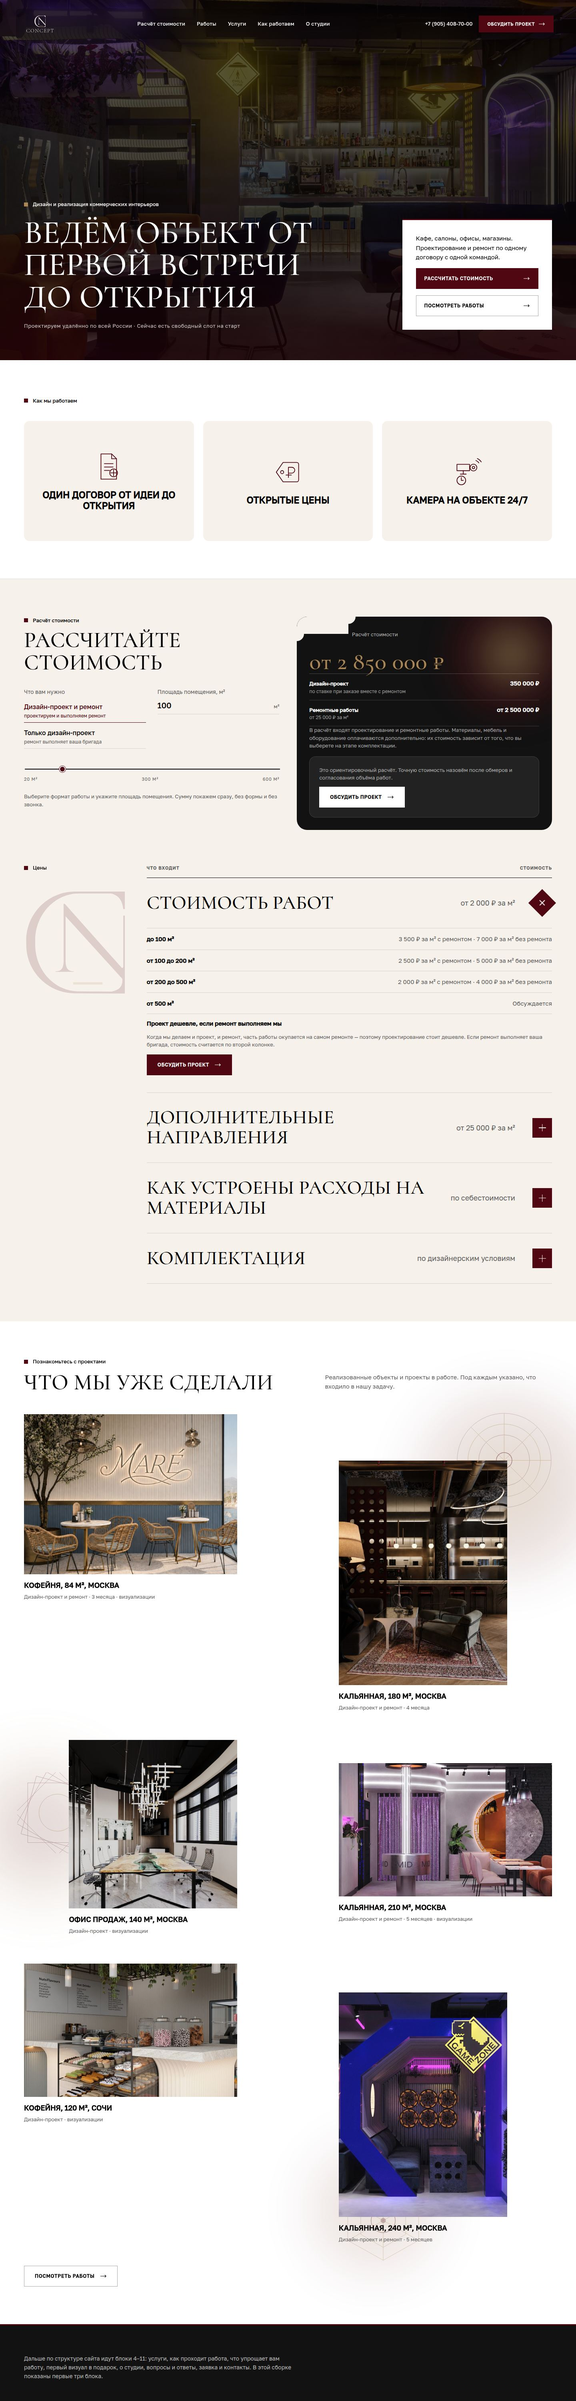
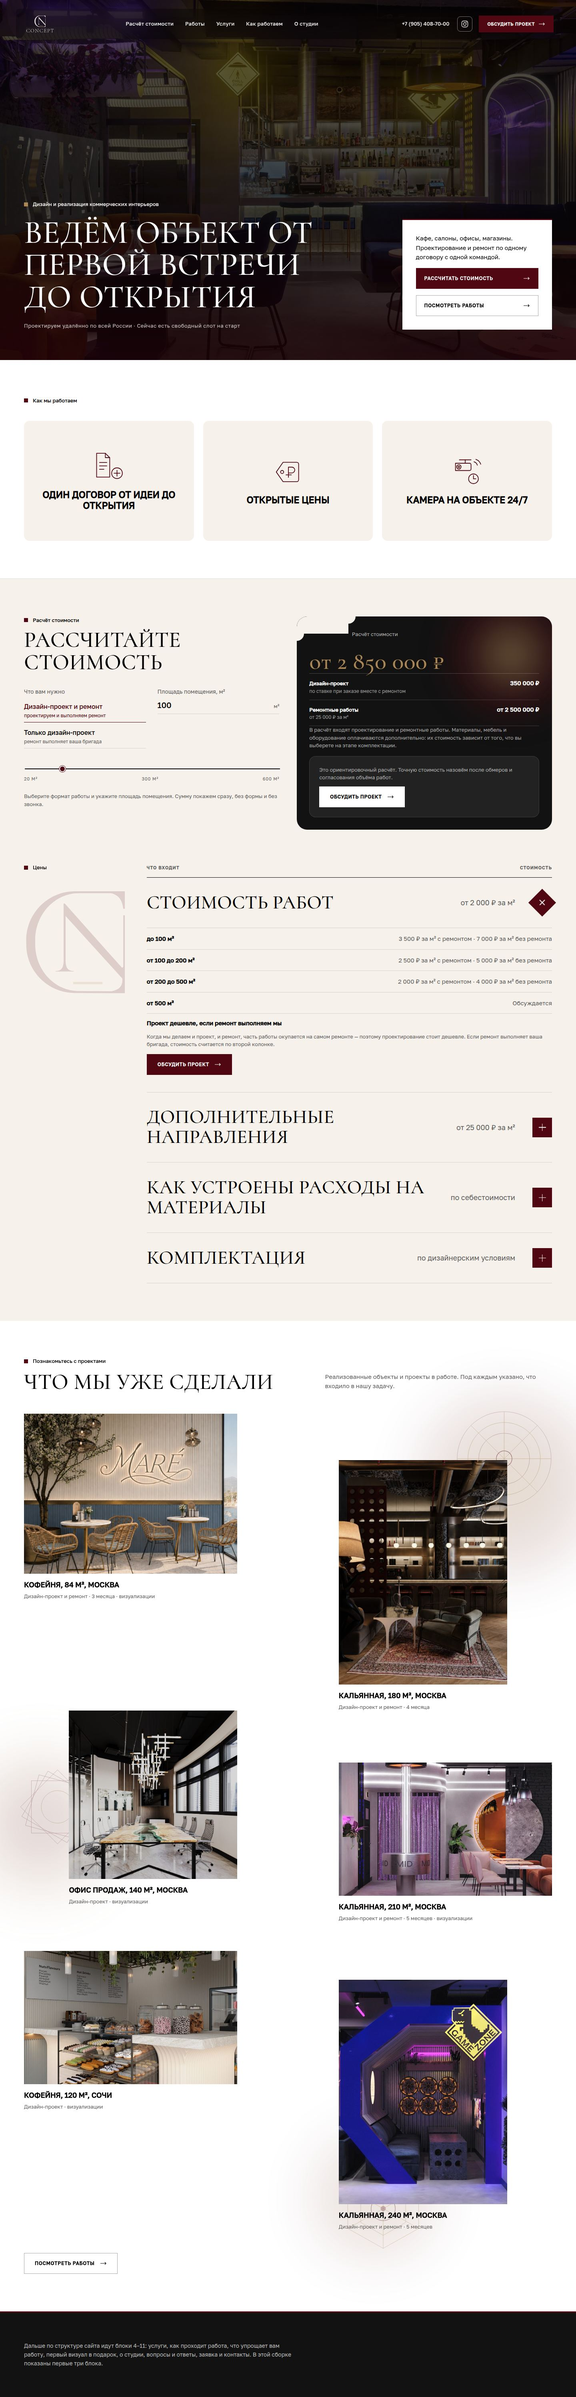
Слайдшоу на первом экране, иконки, галерея объектов и правки под мобильный
Первый экран: четыре кадра сменяют друг друга по кругу (32 с, плавное
перекрытие, отключается при prefers-reduced-motion). Три новых кадра
собраны из assets/photo/source/hero.

Шапка: слева от кнопки появилась иконка Instagram — и на ноутбуке,
и на телефоне. Ссылку на профиль нужно подставить, в коде стоит TODO.

Иконки «Как мы работаем»: у договора плюс переехал вправо от листа,
камера перерисована — корпус с объективом, кронштейн, сигнал и часы.
Наложений больше нет.

Работы:
- у каждого объекта в галерее теперь все кадры, а не два: на ноутбуке
  сетка 2×2 сбоку, на телефоне — горизонтальная лента;
- «Офис продаж, 140 м²» приподнят;
- вектор слева от него больше не обрезается: повёрнутые квадраты
  выходили за viewBox, рамка расширена;
- на телефоне между объектами стало заметно больше воздуха.

Мобильный:
- в ценах плюс всегда в правом верхнем углу, заголовок переносится
  по строкам (раньше уезжал влево под заголовок);
- карточки «Как мы работаем» стали ниже;
- карточка раскрывается сама, когда доходит до середины экрана, и
  закрывается по касанию; заголовок при раскрытии крупнее и выше;
- у объекта при прокрутке выезжают остальные кадры и кнопка
  «Посмотреть все фото».

Наведение вынесено в @media (hover:hover) — на тач-экране :hover
залипал после касания и мешал закрывать карточку.

Проверено: переполнений нет на 390/768/1024/1440/1920, ошибок в консоли
нет, суммы на 250 м² совпадают с документом. Превью пересобраны.
[…]

diff --git a/index.html b/index.html
@@ -30,6 +30,14 @@
     </nav>
 
     <a class="hdr__phone" href="tel:+79054087000">+7 (905) 408-70-00</a>
+    <!-- TODO: подставить ссылку на профиль студии в Instagram -->
+    <a class="hdr__ig" href="#contacts" aria-label="Instagram">
+      <svg viewBox="0 0 24 24" fill="none" aria-hidden="true" focusable="false">
+        <rect x="3" y="3" width="18" height="18" rx="5" stroke="currentColor" stroke-width="1.6"/>
+        <circle cx="12" cy="12" r="4.2" stroke="currentColor" stroke-width="1.6"/>
+        <circle cx="17.4" cy="6.6" r="1.2" fill="currentColor"/>
+      </svg>
+    </a>
     <a class="btn btn--sm" href="#contacts">Обсудить проект</a>
   </div>
 </header>
@@ -40,8 +48,12 @@
      БЛОК 1 — ПЕРВЫЙ ЭКРАН
      ============================================================ -->
 <section class="hero on-dark">
+  <!-- Кадры сменяют друг друга по кругу -->
   <div class="hero__media">
     <img src="assets/photo/hero.jpg" alt="Интерьер бара: барная стойка с латунной отделкой, мягкие диваны, тёплый свет" fetchpriority="high" width="2000" height="1250">
+    <img src="assets/photo/hero-2.jpg" alt="" loading="lazy" width="2000" height="1250">
+    <img src="assets/photo/hero-3.jpg" alt="" loading="lazy" width="2000" height="1250">
+    <img src="assets/photo/hero-4.jpg" alt="" loading="lazy" width="2000" height="1250">
   </div>
 
 
@@ -73,11 +85,11 @@
       <article class="usp__card" tabindex="0">
         <svg class="usp__icon" viewBox="0 0 64 64" fill="none" aria-hidden="true" focusable="false">
           <g stroke="#500711" stroke-width="1.5" stroke-linejoin="round" stroke-linecap="round">
-            <path d="M16 6h22l10 10v42H16z"/>
-            <path d="M38 6v10h10"/>
-            <path d="M23 26h18M23 33h18M23 40h11"/>
-            <circle cx="42" cy="45" r="8"/>
-            <path d="M42 39v12M36 45h12"/>
+            <path d="M7 5h18l9 9v40H7z"/>
+            <path d="M25 5v9h9"/>
+            <path d="M13 24h15M13 31h15M13 38h9"/>
+            <circle cx="49" cy="46" r="11"/>
+            <path d="M49 40v12M43 46h12"/>
           </g>
         </svg>
         <h2 class="h3 usp__title">Один договор от идеи до открытия</h2>
@@ -102,13 +114,14 @@
       <article class="usp__card" tabindex="0">
         <svg class="usp__icon" viewBox="0 0 64 64" fill="none" aria-hidden="true" focusable="false">
           <g stroke="#500711" stroke-width="1.5" stroke-linejoin="round" stroke-linecap="round">
-            <path d="M11 16h26v13H11z"/>
-            <circle cx="45" cy="22.5" r="7"/>
-            <circle cx="45" cy="22.5" r="2.5"/>
-            <path d="M24 29v7M18 36h12"/>
-            <path d="M50 8a13 13 0 0 1 6 5M53 4a19 19 0 0 1 8 7"/>
-            <circle cx="20" cy="49" r="9"/>
-            <path d="M20 43v6h4"/>
+            <path d="M16 7h24"/>
+            <path d="M28 7v7"/>
+            <path d="M8 14h29a3 3 0 0 1 3 3v9a3 3 0 0 1-3 3H8z"/>
+            <circle cx="15" cy="21.5" r="4.5"/>
+            <circle cx="15" cy="21.5" r="1.6"/>
+            <path d="M46 11a10 10 0 0 1 7 7M50 6a16 16 0 0 1 10 10"/>
+            <circle cx="45" cy="46" r="10"/>
+            <path d="M45 39v7h5"/>
           </g>
         </svg>
         <h2 class="h3 usp__title">Камера на объекте 24/7</h2>
@@ -341,7 +354,7 @@
       <circle cx="100" cy="100" r="16" stroke="#500711" stroke-width="1"/>
     </svg>
 
-    <svg class="ornament ornament--b" viewBox="0 0 200 200" fill="none">
+    <svg class="ornament ornament--b" viewBox="-14 -14 228 228" fill="none">
       <g stroke="#500711" stroke-width=".7" opacity=".7">
         <rect x="26" y="26" width="148" height="148"/>
         <rect x="26" y="26" width="148" height="148" transform="rotate(15 100 100)"/>
@@ -383,7 +396,10 @@
         <div class="work__extra" aria-hidden="true">
           <img src="assets/photo/works/krym-cafe/01.jpg" alt="" loading="lazy">
           <img src="assets/photo/works/krym-cafe/02.jpg" alt="" loading="lazy">
+          <img src="assets/photo/works/krym-cafe/03.jpg" alt="" loading="lazy">
+          <img src="assets/photo/works/krym-cafe/04.jpg" alt="" loading="lazy">
         </div>
+        <a class="work__more" href="#works">Посмотреть все фото</a>
         <h3 class="work__title">Кофейня, 84 м², Москва</h3>
         <p class="work__meta">Дизайн-проект и ремонт · 3 месяца · визуализации</p>
       </article>
@@ -395,7 +411,10 @@
         <div class="work__extra" aria-hidden="true">
           <img src="assets/photo/works/hookah-bar/02.jpg" alt="" loading="lazy">
           <img src="assets/photo/works/hookah-bar/03.jpg" alt="" loading="lazy">
+          <img src="assets/photo/works/hookah-bar/04.jpg" alt="" loading="lazy">
+          <img src="assets/photo/works/hookah-bar/wide.jpg" alt="" loading="lazy">
         </div>
+        <a class="work__more" href="#works">Посмотреть все фото</a>
         <h3 class="work__title">Кальянная, 180 м², Москва</h3>
         <p class="work__meta">Дизайн-проект и ремонт · 4 месяца</p>
       </article>
@@ -407,7 +426,10 @@
         <div class="work__extra" aria-hidden="true">
           <img src="assets/photo/works/sales-office/02.jpg" alt="" loading="lazy">
           <img src="assets/photo/works/sales-office/03.jpg" alt="" loading="lazy">
+          <img src="assets/photo/works/sales-office/04.jpg" alt="" loading="lazy">
+          <img src="assets/photo/works/sales-office/wide.jpg" alt="" loading="lazy">
         </div>
+        <a class="work__more" href="#works">Посмотреть все фото</a>
         <h3 class="work__title">Офис продаж, 140 м², Москва</h3>
         <p class="work__meta">Дизайн-проект · визуализации</p>
       </article>
@@ -419,7 +441,10 @@
         <div class="work__extra" aria-hidden="true">
           <img src="assets/photo/works/mid-lounge/01.jpg" alt="" loading="lazy">
           <img src="assets/photo/works/mid-lounge/02.jpg" alt="" loading="lazy">
+          <img src="assets/photo/works/mid-lounge/03.jpg" alt="" loading="lazy">
+          <img src="assets/photo/works/mid-lounge/04.jpg" alt="" loading="lazy">
         </div>
+        <a class="work__more" href="#works">Посмотреть все фото</a>
         <h3 class="work__title">Кальянная, 210 м², Москва</h3>
         <p class="work__meta">Дизайн-проект и ремонт · 5 месяцев · визуализации</p>
       </article>
@@ -429,9 +454,12 @@
           <img src="assets/photo/works/krym-cafe/03.jpg" alt="Кофейня: барная стойка и витрина с десертами" loading="lazy" width="1600" height="1000">
         </div>
         <div class="work__extra" aria-hidden="true">
+          <img src="assets/photo/works/krym-cafe/01.jpg" alt="" loading="lazy">
+          <img src="assets/photo/works/krym-cafe/02.jpg" alt="" loading="lazy">
           <img src="assets/photo/works/krym-cafe/04.jpg" alt="" loading="lazy">
           <img src="assets/photo/works/krym-cafe/wide.jpg" alt="" loading="lazy">
         </div>
+        <a class="work__more" href="#works">Посмотреть все фото</a>
         <h3 class="work__title">Кофейня, 120 м², Сочи</h3>
         <p class="work__meta">Дизайн-проект · визуализации</p>
       </article>
@@ -441,9 +469,12 @@
           <img src="assets/photo/works/mid-lounge/03.jpg" alt="Кальянная: посадочная зона с диванами и декоративными нишами" loading="lazy" width="1050" height="1400">
         </div>
         <div class="work__extra" aria-hidden="true">
+          <img src="assets/photo/works/mid-lounge/01.jpg" alt="" loading="lazy">
+          <img src="assets/photo/works/mid-lounge/02.jpg" alt="" loading="lazy">
           <img src="assets/photo/works/mid-lounge/04.jpg" alt="" loading="lazy">
           <img src="assets/photo/works/mid-lounge/wide.jpg" alt="" loading="lazy">
         </div>
+        <a class="work__more" href="#works">Посмотреть все фото</a>
         <h3 class="work__title">Кальянная, 240 м², Москва</h3>
         <p class="work__meta">Дизайн-проект и ремонт · 5 месяцев</p>
       </article>

diff --git a/assets/css/krasnov.css b/assets/css/krasnov.css
@@ -165,6 +165,14 @@ ul{ padding:0; list-style:none }
   margin-inline-start:clamp(16px,2vw,32px);
 }
 .hdr__phone:hover{ color:var(--brass) }
+.hdr__ig{
+  flex:none; margin-inline-start:clamp(12px,1.4vw,20px);
+  display:grid; place-items:center; width:38px; height:38px;
+  border:1px solid var(--rule-light); border-radius:8px;
+  transition:color .2s, border-color .2s;
+}
+.hdr__ig svg{ width:20px; height:20px }
+.hdr__ig:hover{ color:var(--brass); border-color:var(--brass) }
 .hdr .btn{ flex:none; margin-inline-start:16px; white-space:nowrap }
 
 /* ============================================================
@@ -177,7 +185,21 @@ ul{ padding:0; list-style:none }
   background:var(--black); color:#fff; overflow:hidden;
 }
 .hero__media{ position:absolute; inset:0 }
-.hero__media img{ width:100%; height:100%; object-fit:cover }
+.hero__media img{
+  position:absolute; inset:0; width:100%; height:100%; object-fit:cover;
+  opacity:0; animation:heroFade 32s linear infinite;
+}
+.hero__media img:nth-child(1){ animation-delay:-1s }
+.hero__media img:nth-child(2){ animation-delay:7s }
+.hero__media img:nth-child(3){ animation-delay:15s }
+.hero__media img:nth-child(4){ animation-delay:23s }
+@keyframes heroFade{
+  0%{ opacity:0 } 3%{ opacity:1 } 25%{ opacity:1 } 28%{ opacity:0 } 100%{ opacity:0 }
+}
+@media (prefers-reduced-motion:reduce){
+  .hero__media img{ animation:none }
+  .hero__media img:nth-child(1){ opacity:1 }
+}
 .hero__media::after{
   content:''; position:absolute; inset:0;
   background:
@@ -242,18 +264,31 @@ ul{ padding:0; list-style:none }
   transition:opacity .35s ease .1s, transform .5s cubic-bezier(.4,0,.2,1) .05s;
 }
 
-.usp__card:hover,
-.usp__card:focus-within{ background:var(--wine); color:#fff }
-.usp__card:hover .usp__icon,
-.usp__card:focus-within .usp__icon{ transform:translateY(-230%); opacity:0 }
-.usp__card:hover .usp__icon [stroke]{ stroke:#fff }
-.usp__card:hover .usp__title,
-.usp__card:focus-within .usp__title{
+.usp__card:focus-within,
+.usp__card.is-open{ background:var(--wine); color:#fff }
+.usp__card:focus-within .usp__icon,
+.usp__card.is-open .usp__icon{ transform:translateY(-230%); opacity:0 }
+.usp__card:focus-within .usp__icon [stroke],
+.usp__card.is-open .usp__icon [stroke]{ stroke:#fff }
+.usp__card:focus-within .usp__title,
+.usp__card.is-open .usp__title{
   font-size:clamp(18px,1.9vw,24px);
   transform:translateY(clamp(-74px,-7vw,-46px));
 }
-.usp__card:hover .usp__desc,
-.usp__card:focus-within .usp__desc{ opacity:1; transform:translateY(0) }
+.usp__card:focus-within .usp__desc,
+.usp__card.is-open .usp__desc{ opacity:1; transform:translateY(0) }
+
+/* Наведение — только там, где есть мышь: на тач-экране :hover залипает */
+@media (hover:hover){
+  .usp__card:hover{ background:var(--wine); color:#fff }
+  .usp__card:hover .usp__icon{ transform:translateY(-230%); opacity:0 }
+  .usp__card:hover .usp__icon [stroke]{ stroke:#fff }
+  .usp__card:hover .usp__title{
+    font-size:clamp(18px,1.9vw,24px);
+    transform:translateY(clamp(-74px,-7vw,-46px));
+  }
+  .usp__card:hover .usp__desc{ opacity:1; transform:translateY(0) }
+}
 
 @media (prefers-reduced-motion:reduce){
   .usp__icon,.usp__title,.usp__desc{ transition:none }
@@ -504,20 +539,22 @@ ul{ padding:0; list-style:none }
 
 /* Кадры объекта, которые выезжают сбоку при наведении */
 .work__extra{
-  position:absolute; top:0; width:38%; z-index:2;
-  display:flex; flex-direction:column; gap:clamp(10px,1.2vw,18px);
+  position:absolute; top:0; width:44%; z-index:2;
+  display:grid; grid-template-columns:1fr 1fr; gap:clamp(8px,.9vw,14px);
   opacity:0; pointer-events:none;
   transition:opacity .4s ease, transform .55s cubic-bezier(.22,1,.36,1);
 }
 .work__extra img{ width:100%; aspect-ratio:4/3; object-fit:cover }
+.work__more{ display:none }
 .work--r .work__extra{ left:100%; margin-left:clamp(10px,1.4vw,22px); transform:translateX(-18px) }
 .work--l .work__extra{ right:100%; margin-right:clamp(10px,1.4vw,22px); transform:translateX(18px) }
 .work:hover .work__extra,
-.work:focus-within .work__extra{ opacity:1; transform:translateX(0) }
+.work:focus-within .work__extra,
+.work.is-open .work__extra{ opacity:1; transform:translateX(0) }
 
 .w1{ grid-column:1 / 6;  grid-row:1 }
 .w2{ grid-column:8 / 12; grid-row:1; margin-top:clamp(40px,8vw,140px) }
-.w3{ grid-column:2 / 6;  grid-row:2 }
+.w3{ grid-column:2 / 6;  grid-row:2; margin-top:clamp(-80px,-5vw,-24px) }
 .w4{ grid-column:8 / 13; grid-row:2; margin-top:clamp(20px,4vw,70px) }
 .w5{ grid-column:1 / 6;  grid-row:3 }
 .w6{ grid-column:8 / 12; grid-row:3; margin-top:clamp(30px,5vw,90px) }
@@ -549,6 +586,7 @@ ul{ padding:0; list-style:none }
 @media (max-width:1240px){
   .hdr__nav a:nth-child(n+5){ display:none }
   .work__extra{ display:none }
+  .w3{ margin-top:0 }
 }
 
 @media (max-width:1024px){
@@ -577,18 +615,52 @@ ul{ padding:0; list-style:none }
   .hero{ min-height:auto }
   .hero__bottom{ padding-top:calc(var(--hdr) + 90px); padding-bottom:44px }
 
-  .usp__grid{ grid-template-columns:1fr }
+  /* Карточки были слишком высокими для телефона */
+  .usp__grid{ grid-template-columns:1fr; gap:12px }
+  .usp__card{ min-height:236px; padding:22px 20px; border-radius:12px }
+  .usp__icon{ width:54px; height:54px }
+  .usp__title{ margin-top:14px }
+  .usp__desc{ left:20px; right:20px; bottom:20px }
+  .usp__card:focus-within .usp__title,
+  .usp__card.is-open .usp__title{ font-size:21px; transform:translateY(-62px) }
   .calc__grid{ grid-template-columns:1fr }
   .calc__panel-head{ padding-left:0 }
   .calc__panel > .calc__cut{ display:none }
 
   .works__grid{ display:block }
-  .work + .work{ margin-top:clamp(28px,7vw,48px) }
+  .work + .work{ margin-top:clamp(52px,13vw,76px) }
   .work{ margin-top:0 !important }
   .ornament,.glow{ opacity:.35 }
 
-  .price__row > summary{ flex-wrap:wrap }
-  .price__sum{ order:3; flex:1 0 100%; margin-top:8px }
+  /* Остальные кадры объекта выезжают под фотографией, когда карточка
+     оказывается в центре экрана; рядом — кнопка на всю галерею. */
+  .work__extra{
+    display:grid; position:static; width:100%;
+    grid-auto-flow:column; grid-auto-columns:42%; grid-template-columns:none;
+    gap:8px; margin-top:8px; padding-bottom:2px;
+    overflow-x:auto; overscroll-behavior-x:contain;
+    -webkit-overflow-scrolling:touch; scrollbar-width:none;
+    transform:none; opacity:0; max-height:0;
+    transition:opacity .4s ease, max-height .5s cubic-bezier(.22,1,.36,1);
+  }
+  .work__extra::-webkit-scrollbar{ display:none }
+  .work.is-open .work__extra{ opacity:1; max-height:200px; pointer-events:auto }
+
+  .work__more{
+    display:inline-flex; align-items:center; gap:8px;
+    margin-top:12px; padding:8px 14px;
+    border:1px solid var(--rule-strong);
+    font-size:11px; font-weight:600; letter-spacing:.06em; text-transform:uppercase;
+    opacity:0; transform:translateY(6px); pointer-events:none;
+    transition:opacity .4s ease .1s, transform .4s ease .1s;
+  }
+  .work.is-open .work__more{ opacity:1; transform:translateY(0); pointer-events:auto }
+
+  /* Плюс всегда в правом верхнем углу, заголовок переносится по строкам */
+  .price__row > summary{ display:grid; grid-template-columns:minmax(0,1fr) auto; column-gap:16px }
+  .price__name{ grid-column:1; grid-row:1 }
+  .price__plus{ grid-column:2; grid-row:1; align-self:start }
+  .price__sum{ grid-column:1; grid-row:2; margin-top:10px; white-space:normal }
   .plist li{ flex-direction:column; gap:6px }
   .plist span{ text-align:left; white-space:normal }
   .split{ grid-template-columns:1fr }

diff --git a/assets/js/ui.js b/assets/js/ui.js
@@ -1,20 +1,62 @@
-/* Шапка закреплена на экране. Ниже первого экрана фон страницы светлый,
-   поэтому стекло уплотняется — иначе белый текст на нём не прочитать. */
+/* ============================================================
+   CONCEPT — мелкий интерфейс без библиотек
+   ============================================================ */
 (function () {
   'use strict';
+
+  /* --- Шапка ---------------------------------------------------------
+     Закреплена на экране. Ниже первого экрана фон страницы светлый,
+     поэтому стекло уплотняется — иначе белый текст на нём не прочитать. */
   var hdr = document.querySelector('.hdr');
   var hero = document.querySelector('.hero');
-  if (!hdr || !hero) return;
 
-  var stuck = false;
-  function sync() {
-    var next = window.scrollY > hero.offsetHeight - 140;
-    if (next === stuck) return;
-    stuck = next;
-    hdr.classList.toggle('is-stuck', stuck);
+  if (hdr && hero) {
+    var stuck = false;
+    var syncHeader = function () {
+      var next = window.scrollY > hero.offsetHeight - 140;
+      if (next === stuck) return;
+      stuck = next;
+      hdr.classList.toggle('is-stuck', stuck);
+    };
+    window.addEventListener('scroll', syncHeader, { passive: true });
+    window.addEventListener('resize', syncHeader);
+    syncHeader();
   }
 
-  window.addEventListener('scroll', sync, { passive: true });
-  window.addEventListener('resize', sync);
-  sync();
+  /* --- Раскрытие по центру экрана ------------------------------------
+     На тач-экранах нет наведения: блок раскрывается сам, когда доходит
+     до середины экрана, и закрывается по касанию. */
+  var isTouch = window.matchMedia('(hover: none)').matches;
+  if (!isTouch || !('IntersectionObserver' in window)) return;
+
+  function revealOnScroll(selector, band, closeOnTap) {
+    var items = document.querySelectorAll(selector);
+    if (!items.length) return;
+
+    var observer = new IntersectionObserver(function (entries) {
+      entries.forEach(function (entry) {
+        var el = entry.target;
+        // Карточку закрыли касанием — не трогаем, пока не уйдёт с экрана
+        if (el.dataset.locked) {
+          if (!entry.isIntersecting) delete el.dataset.locked;
+          return;
+        }
+        el.classList.toggle('is-open', entry.isIntersecting);
+      });
+    }, { rootMargin: band, threshold: 0 });
+
+    items.forEach(function (el) {
+      observer.observe(el);
+      if (!closeOnTap) return;
+      el.addEventListener('click', function (event) {
+        if (event.target.closest('a')) return;   // ссылки внутри работают как обычно
+        if (!el.classList.contains('is-open')) return;
+        el.classList.remove('is-open');
+        el.dataset.locked = '1';
+      });
+    });
+  }
+
+  revealOnScroll('.usp__card', '-45% 0px -45% 0px', true);
+  revealOnScroll('.work', '-32% 0px -32% 0px', false);
 })();
